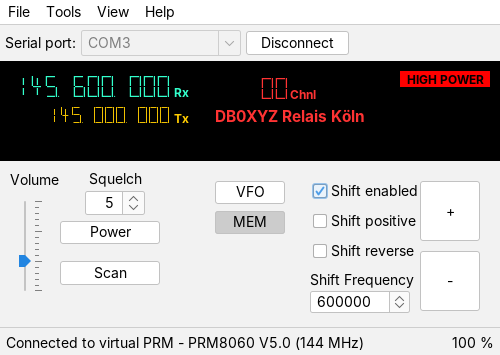
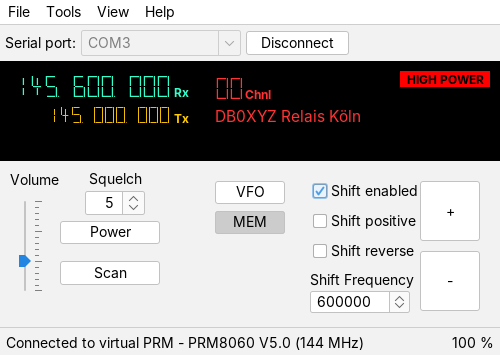
Channel comment in normal font, channel number left-aligned with it
Claude-Session: https://claude.ai/code/session_01WuSe41qryLsRRQJPkzmJyd

Changed region(s): [[0.42, 0.2169, 0.63, 0.2789], [0.42, 0.3099, 0.75, 0.3408]]

diff --git a/control_software/trunk/src/main/java/f4fez/prm80x0/gui/PRM80X0View.java b/control_software/trunk/src/main/java/f4fez/prm80x0/gui/PRM80X0View.java
@@ -162,7 +162,7 @@ public class PRM80X0View extends javax.swing.JFrame {
             this.chnlUnitLabel.setFont(unitFont);
             // comment of the channel (channel manager list) below the channel number
             Font commentFont = this.commentLabel.getFont();
-            this.commentLabel.setFont(commentFont.deriveFont(Font.BOLD, commentFont.getSize2D() * 1.1f));
+            this.commentLabel.setFont(commentFont.deriveFont(Font.PLAIN, commentFont.getSize2D() * 1.1f));
             // "Rx", "Tx", "Chnl" stand on the baseline of the LCD digits
             this.rxUnitLabel.putClientProperty(Zoom.BASELINE_OF, this.freqLabel);
             this.txUnitLabel.putClientProperty(Zoom.BASELINE_OF, this.txFreqLabel);
@@ -832,7 +832,7 @@ public class PRM80X0View extends javax.swing.JFrame {
                 chanLabelMouseClicked(evt);
             }
         });
-        jPanel1.add(chanLabel, new org.netbeans.lib.awtextra.AbsoluteConstraints(260, 10, 50, 30));
+        jPanel1.add(chanLabel, new org.netbeans.lib.awtextra.AbsoluteConstraints(215, 10, 50, 30));
 
         hpLabel.setBackground(new java.awt.Color(255, 0, 0));
         hpLabel.setForeground(new java.awt.Color(0, 0, 0));
@@ -882,7 +882,7 @@ public class PRM80X0View extends javax.swing.JFrame {
         chnlUnitLabel.setForeground(new java.awt.Color(255, 51, 51));
         chnlUnitLabel.setText("Chnl"); // NOI18N
         chnlUnitLabel.setName("chnlUnitLabel"); // NOI18N
-        jPanel1.add(chnlUnitLabel, new org.netbeans.lib.awtextra.AbsoluteConstraints(290, 22, -1, -1));
+        jPanel1.add(chnlUnitLabel, new org.netbeans.lib.awtextra.AbsoluteConstraints(245, 22, -1, -1));
 
         commentLabel.setForeground(new java.awt.Color(255, 51, 51));
         commentLabel.setText(""); // NOI18N
